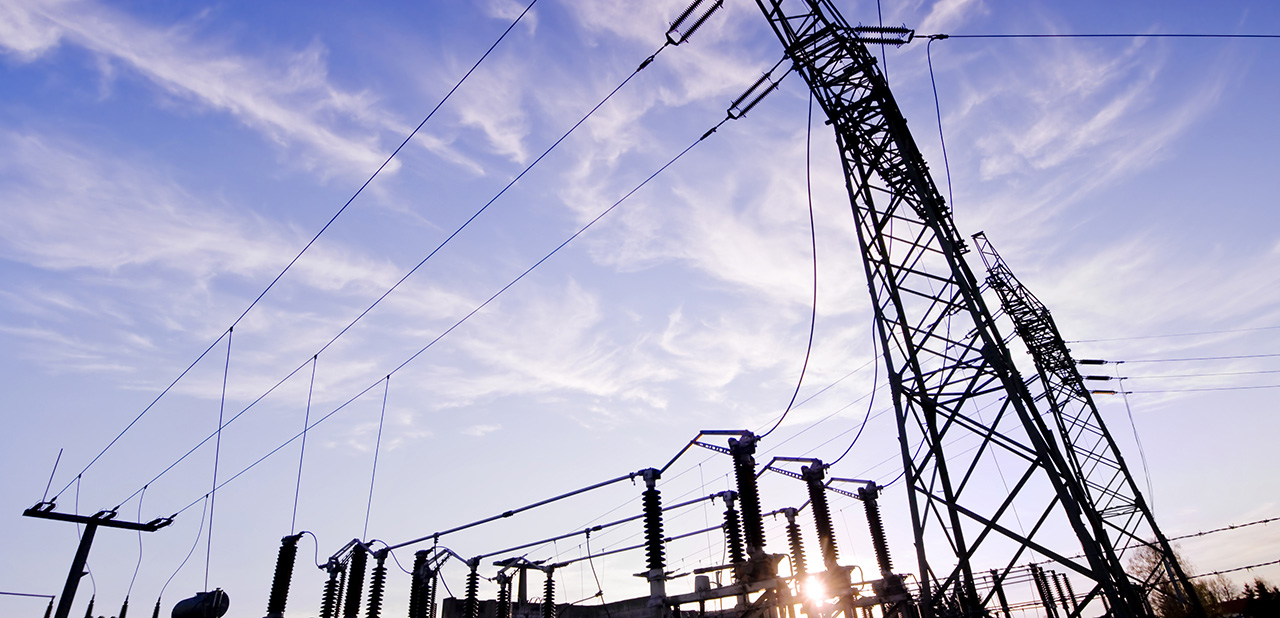
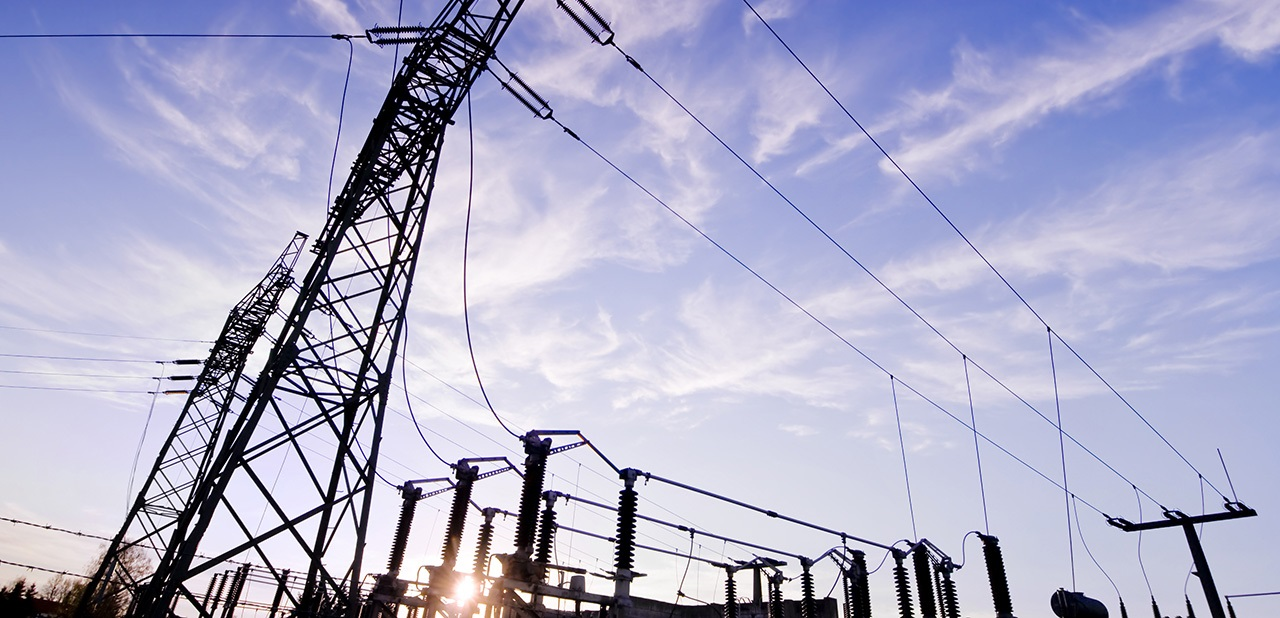
v1.0.0

diff --git a/_includes/about.html b/_includes/about.html
@@ -8,99 +8,6 @@
             <p>{{ site.about }}</p>
           </div>
         </div>
-        <div class="col-md-12">
-          <div class="about-content">
-            <div class="row">
-              <div class="col-md-6">
-                <div class="our-skill">
-                  <h3>Our Skills</h3>                  
-                  <div class="our-skill-content">
-                  <p>There are many variations of passages of Lorem Ipsum available, but the majority have suffered alteration in some form, by injected humour</p>
-                    <div class="progress">
-                      <div class="progress-bar six-sec-ease-in-out" role="progressbar" data-transitiongoal="100">
-                        <span class="progress-title">Html5</span>
-                      </div>
-                  </div>
-                  <div class="progress">
-                      <div class="progress-bar six-sec-ease-in-out" role="progressbar" data-transitiongoal="85">
-                        <span class="progress-title">Css3</span>
-                      </div>
-                  </div>
-                  <div class="progress">
-                      <div class="progress-bar six-sec-ease-in-out" role="progressbar" data-transitiongoal="70">
-                        <span class="progress-title">JQuery</span>
-                      </div>
-                  </div>
-                  <div class="progress">
-                      <div class="progress-bar six-sec-ease-in-out" role="progressbar" data-transitiongoal="60">
-                        <span class="progress-title">wordPress</span>
-                      </div>
-                  </div>
-                  <div class="progress">
-                      <div class="progress-bar six-sec-ease-in-out" role="progressbar" data-transitiongoal="40">
-                        <span class="progress-title">Php</span>
-                      </div>
-                  </div>
-                   <div class="progress">
-                      <div class="progress-bar six-sec-ease-in-out" role="progressbar" data-transitiongoal="25">
-                        <span class="progress-title">Java</span>
-                      </div>
-                  </div>
-                  </div>                  
-                </div>
-              </div>
-              <div class="col-md-6">
-                <div class="why-choose-us">
-                  <h3>Why Choose Us?</h3>
-                  <div class="panel-group why-choose-group" id="accordion">
-                    <div class="panel panel-default">
-                      <div class="panel-heading">
-                        <h4 class="panel-title">
-                          <a data-toggle="collapse" data-parent="#accordion" href="#collapseOne">
-                            Awesome Design Layout <span class="fa fa-minus-square"></span>
-                          </a>
-                        </h4>
-                      </div>
-                      <div id="collapseOne" class="panel-collapse collapse in">
-                        <div class="panel-body">
-                        <img class="why-choose-img" src="assets/images/testi1.jpg" alt="img">
-                         <p> Anim pariatur cliche reprehenderit, enim eiusmod high life accusamus terry richardson ad squid. 3 wolf moon officia aute, non cupidatat skateboard dolor brunch. Food truck quinoa nesciunt laborum eiusmod. Brunch 3 wolf moon tempor, sunt aliqua put a bird on it squid single-origin coffee nulla assumenda shoreditch et. Nihil anim keffiyeh helvetica, craft beer labore wes anderson cred nesciunt sapiente ea proident. Ad vegan excepteur butcher vice lomo. Leggings occaecat craft beer farm-to-table, raw denim aesthetic synth nesciunt you probably haven't heard of them accusamus labore sustainable VHS.</p>
-                        </div>
-                      </div>
-                    </div>
-                    <div class="panel panel-default ">
-                      <div class="panel-heading">
-                        <h4 class="panel-title">
-                          <a data-toggle="collapse" data-parent="#accordion" href="#collapseTwo">
-                            Quality Coding <span class="fa fa-plus-square"></span>
-                          </a>
-                        </h4>
-                      </div>
-                      <div id="collapseTwo" class="panel-collapse collapse">
-                        <div class="panel-body">
-                         <p>Anim pariatur cliche reprehenderit, enim eiusmod high life accusamus terry richardson ad squid. 3 wolf moon officia aute, non cupidatat skateboard dolor brunch. Food truck quinoa nesciunt laborum eiusmod. Brunch 3 wolf moon tempor, sunt aliqua put a bird on it squid single-origin coffee nulla assumenda shoreditch et. Nihil anim keffiyeh helvetica, craft beer labore wes anderson cred nesciunt sapiente ea proident. Ad vegan excepteur butcher vice lomo. Leggings occaecat craft beer farm-to-table, raw denim aesthetic synth nesciunt you probably haven't heard of them accusamus labore sustainable VHS.</p>
-                        </div>
-                      </div>
-                    </div>
-                    <div class="panel panel-default">
-                      <div class="panel-heading">
-                        <h4 class="panel-title">
-                          <a data-toggle="collapse" data-parent="#accordion" href="#collapseThree">
-                            Great Support <span class="fa fa-plus-square"></span>
-                          </a>
-                        </h4>
-                      </div>
-                      <div id="collapseThree" class="panel-collapse collapse">
-                        <div class="panel-body">
-                          <p>Anim pariatur cliche reprehenderit, enim eiusmod high life accusamus terry richardson ad squid. 3 wolf moon officia aute, non cupidatat skateboard dolor brunch. Food truck quinoa nesciunt laborum eiusmod. Brunch 3 wolf moon tempor, sunt aliqua put a bird on it squid single-origin coffee nulla assumenda shoreditch et. Nihil anim keffiyeh helvetica, craft beer labore wes anderson cred nesciunt sapiente ea proident. Ad vegan excepteur butcher vice lomo. Leggings occaecat craft beer farm-to-table, raw denim aesthetic synth nesciunt you probably haven't heard of them accusamus labore sustainable VHS.</p>
-                        </div>
-                      </div>
-                    </div>
-                  </div>
-                </div>
-              </div>              
-            </div>
-          </div>
         </div>
       </div>
     </div>

diff --git a/_includes/service.html b/_includes/service.html
@@ -5,63 +5,45 @@
           <div class="title-area">
             <h2 class="title">Our Services</h2>
             <span class="line"></span>
-            <p>There are many variations of passages of Lorem Ipsum available, but the majority have suffered alteration in some form, by injected humour</p>
+            <p></p>
           </div>
         </div>
         <div class="col-md-12">
           <div class="service-content">
             <div class="row">
               <!-- Start single service -->
-              <div class="col-md-4 col-sm-6">
+              <div class="col-md-6 col-sm-6">
                 <div class="single-service wow zoomIn">
-                  <i class="fa fa-desktop service-icon"></i>
-                  <h4 class="service-title">Web Development</h4>
-                  <p>There are many variations of passages of Lorem Ipsum available, but the majority have suffered alteration in some form.</p>
+                  <i class="fa fa-signal service-icon"></i>
+                  <h4 class="service-title">{{ site.service.pj_1 }}</h4>
+                  <p>{{ site.service.sj_1 }}</p>
                 </div>
               </div>
               <!-- End single service -->
               <!-- Start single service -->
-              <div class="col-md-4 col-sm-6">
+              <div class="col-md-6 col-sm-6">
                 <div class="single-service wow zoomIn">
-                  <i class="fa fa-paw service-icon"></i>
-                  <h4 class="service-title">Digital Design</h4>
-                  <p>There are many variations of passages of Lorem Ipsum available, but the majority have suffered alteration in some form.</p>
+                  <i class="fa fa-wrench service-icon"></i>
+                  <h4 class="service-title">{{ site.service.pj_2 }}</h4>
+                  <p>{{ site.service.sj_2 }}</p>
                 </div>
               </div>
               <!-- End single service -->
               <!-- Start single service -->
-              <div class="col-md-4 col-sm-6">
+              <div class="col-md-6 col-sm-6">
                 <div class="single-service wow zoomIn">
-                  <i class="fa fa-magic service-icon"></i>
-                  <h4 class="service-title">Marketing</h4>
-                  <p>There are many variations of passages of Lorem Ipsum available, but the majority have suffered alteration in some form.</p>
+                  <i class="fa fa-building service-icon"></i>
+                  <h4 class="service-title">{{ site.service.pj_3 }}</h4>
+                  <p>{{ site.service.sj_3 }}</p>
                 </div>
               </div>
               <!-- End single service -->
               <!-- Start single service -->
-              <div class="col-md-4 col-sm-6">
+              <div class="col-md-6 col-sm-6">
                 <div class="single-service wow zoomIn">
-                  <i class="fa fa-shopping-cart service-icon"></i>
-                  <h4 class="service-title">E-commerce</h4>
-                  <p>There are many variations of passages of Lorem Ipsum available, but the majority have suffered alteration in some form.</p>
-                </div>
-              </div>
-              <!-- End single service -->
-              <!-- Start single service -->
-              <div class="col-md-4 col-sm-6">
-                <div class="single-service wow zoomIn">
-                  <i class="fa fa-mobile service-icon"></i>
-                  <h4 class="service-title">App Development</h4>
-                  <p>There are many variations of passages of Lorem Ipsum available, but the majority have suffered alteration in some form.</p>
-                </div>
-              </div>
-              <!-- End single service -->
-              <!-- Start single service -->
-              <div class="col-md-4 col-sm-6">
-                <div class="single-service wow zoomIn">
-                  <i class="fa fa-rocket service-icon"></i>
-                  <h4 class="service-title">S.E.O</h4>
-                  <p>There are many variations of passages of Lorem Ipsum available, but the majority have suffered alteration in some form.</p>
+                  <i class="fa fa-laptop service-icon"></i>
+                  <h4 class="service-title">{{ site.service.pj_4 }}</h4>
+                  <p>{{ site.service.sj_4 }}</p>
                 </div>
               </div>
               <!-- End single service -->

diff --git a/_includes/slider.html b/_includes/slider.html
@@ -1,7 +1,7 @@
 <section id="slider">
     <div class="main-slider">
       <div class="single-slide">
-        <img src="assets/images/slider-1.jpg" alt="img">
+        <img src="assets/images/slider-3.jpg" alt="img">
         <div class="slide-content">
           <div class="container">
             <div class="row">
@@ -9,7 +9,7 @@
                 <div class="slide-article">
                   <h1 class="wow fadeInUp" data-wow-duration="0.5s" data-wow-delay="0.5s">Service for Telecommunications network</h1>
                   <p class="wow fadeInUp" data-wow-duration="0.5s" data-wow-delay="0.75s">Our Company  was established from engineers with experience in their field and combination and become to us. </p>
-                  <a class="read-more-btn wow fadeInUp" data-wow-duration="1s" data-wow-delay="1s" href="#">Read More</a>
+                 <!-- <a class="read-more-btn wow fadeInUp" data-wow-duration="1s" data-wow-delay="1s" href="#">Read More</a>-->
                 </div>
               </div>
               <div class="col-md-6 col-sm-6">
@@ -22,20 +22,20 @@
         </div>
       </div>
       <div class="single-slide">
-        <img src="assets/images/slider-3.jpg" alt="img">
+        <img src="assets/images/slider-1.jpg" alt="img">
         <div class="slide-content">
           <div class="container">
             <div class="row">
               <div class="col-md-6 col-sm-6">
-                <div class="slide-article">
-                  <h1 class="wow fadeInUp" data-wow-duration="0.5s" data-wow-delay="0.5s">We are team of experience in Telecommunications Networks</h1>
-                  <p class="wow fadeInUp" data-wow-duration="0.5s" data-wow-delay="0.75s">Enterprise networks  , Security System , Computer Systems , software</p>
-                  <a class="read-more-btn wow fadeInUp" data-wow-duration="1s" data-wow-delay="1s" href="#">Read More</a>
+                <div class="slider-img wow fadeInUp">
+                  <!--<img src="assets/images/person2.png" alt="business man">-->
                 </div>
               </div>
               <div class="col-md-6 col-sm-6">
-                <div class="slider-img wow fadeInUp">
-                  <!--<img src="assets/images/person2.png" alt="business man">-->
+                <div class="slide-article">
+                  <h1 class="wow fadeInUp" data-wow-duration="0.5s" data-wow-delay="0.5s">We are team of experience in Telecommunications Networks</h1>
+                  <p class="wow fadeInUp" data-wow-duration="0.5s" data-wow-delay="0.75s">Enterprise networks  , Security System , Computer Systems , software</p>
+                  <!-- <a class="read-more-btn wow fadeInUp" data-wow-duration="1s" data-wow-delay="1s" href="#">Read More</a>-->
                 </div>
               </div>
             </div>

diff --git a/_includes/navigation.html b/_includes/navigation.html
@@ -11,36 +11,15 @@
           </button>
           <!-- LOGO -->              
           <!-- TEXT BASED LOGO -->
-          <a class="navbar-brand" href="#">{{ site.brand }}</a>
+          <a class="navbar-brand" href="#"></a>
           <!-- IMG BASED LOGO  -->
-            <a class="navbar-brand" href="index.html"><img src="assets/images/logo.png" height="40px" alt="logo"></a>
+            <a class="navbar-brand" href="index.html"><img src="assets/images/Banner2.svg" height="40px" alt="logo"></a>
         </div>
         <div id="navbar" class="navbar-collapse collapse">
           <ul id="top-menu" class="nav navbar-nav navbar-right main-nav">
             <li class="active"><a href="#">Home</a></li>
-           <!-- <li><a href="#feature">Feature</a></li>
-           
-            <li class="dropdown">
-              <a href="#" class="dropdown-toggle" data-toggle="dropdown">Service <span class="fa fa-angle-down"></span></a>
-              <ul class="dropdown-menu" role="menu">
-                <li><a href="blog-archive.html">Blog Archive</a></li>
-                <li><a href="blog-single-with-left-sidebar.html">Blog Single with Left Sidebar</a></li>
-                <li><a href="blog-single-with-right-sidebar.html">Blog Single with Right Sidebar</a></li>
-                <li><a href="blog-single-with-out-sidebar.html">Blog Single with out Sidebar</a></li>
-              </ul>
-            </li>-->
-
-            <li><a href="#portfolio">Portfolio</a></li>
-           <!-- <li class="dropdown">
-              <a href="#" class="dropdown-toggle" data-toggle="dropdown">Blog <span class="fa fa-angle-down"></span></a>
-              <ul class="dropdown-menu" role="menu">
-                <li><a href="blog-archive.html">Blog Archive</a></li>                
-                <li><a href="blog-single-with-left-sidebar.html">Blog Single with Left Sidebar</a></li>
-                <li><a href="blog-single-with-right-sidebar.html">Blog Single with Right Sidebar</a></li>
-                <li><a href="blog-single-with-out-sidebar.html">Blog Single with out Sidebar</a></li>           
-              </ul>
-            </li>-->
-        
+           <li><a href="#about">About us</a></li>
+            <li><a href="#service">Service</a></li>
             <li><a href="#contact">Contact</a></li>
           </ul>                     
         </div><!--/.nav-collapse -->

diff --git a/_includes/contact.html b/_includes/contact.html
@@ -4,7 +4,7 @@
 		<div class="row">
 			<div class="col-md-12">
 				<div class="title-area">
-					<h2 class="title">Have any Questions?</h2>
+					<h2 class="title">Contact Us</h2>
 					<span class="line"></span>
 					<p></p>
 				</div>
@@ -17,19 +17,11 @@
 								<h4>Contact Info</h4>
 								<p>Goal Utility Company Limited</p>
 								<address class="single-address">
-									<p>HQ  10/56  Soi changwatana 14 thungsonghong Laksi Bangkok 10210 (Thailand)</p>
-									<p><a href="mailto:contact@goalutility.com?cc=ratchakitim@gmail.com,thanakorn@goalutility.com
-">
+									<p>{{ site.contact.address }}</p>
+									<p><a href="mailto:contact@goalutility.com?cc=ratchakitim@gmail.com,thanakorn@goalutility.com">
 										contact@goalutility.com</a></p>
-									<p>+1(06) 778 5468</p>
+									<p>{{ site.contact.tel }}</p>
 								</address>
-								<div class="footer-right contact-social">
-									<a href="index.html"><i class="fa fa-facebook"></i></a>
-									<a href="#"><i class="fa fa-twitter"></i></a>
-									<a href="#"><i class="fa fa-google-plus"></i></a>
-									<a href="#"><i class="fa fa-linkedin"></i></a>
-									<a href="#"><i class="fa fa-pinterest"></i></a>
-								</div>
 							</div>
 						</div>
 						<div class="col-md-8">

diff --git a/_includes/footer.html b/_includes/footer.html
@@ -6,7 +6,7 @@
             <p> © {{ site.time | date: "%Y" }} <a href="{{ site.copyright.url }}">{{ site.copyright.brand }}</a></p>
           </div>
         </div>
-        <div class="col-md-6 col-sm-6">
+        <!--<div class="col-md-6 col-sm-6">
           <div class="footer-right">
             <a href="index.html"><i class="fa fa-facebook"></i></a>
             <a href="#"><i class="fa fa-twitter"></i></a>
@@ -14,7 +14,7 @@
             <a href="#"><i class="fa fa-linkedin"></i></a>
             <a href="#"><i class="fa fa-pinterest"></i></a>
           </div>
-        </div>
+        </div>-->
       </div>
     </div>
   </footer>

diff --git a/_includes/head.html b/_includes/head.html
@@ -19,7 +19,7 @@
     <!-- Progress bar  -->
     <link rel="stylesheet" type="text/css" href="assets/css/bootstrap-progressbar-3.3.4.css"/> 
      <!-- Theme color -->
-    <link id="switcher" href="assets/css/theme-color/orange-theme.css" rel="stylesheet">
+    <link id="switcher" href="assets/css/theme-color/{{ site.themez }}.css" rel="stylesheet">
 
     <!-- Main Style -->
     <link href="assets/style.css" rel="stylesheet">

diff --git a/_layouts/default.html b/_layouts/default.html
@@ -2,6 +2,15 @@
 <html lang="en">
   {% include head.html %}
     <body>
+    <!-- BEGAIN PRELOADER -->
+  <div id="preloader">
+    <div id="status">&nbsp;</div>
+  </div>
+  <!-- END PRELOADER -->
+
+  <!-- SCROLL TOP BUTTON -->
+  <a class="scrollToTop" href="#"><i class="fa fa-angle-up"></i></a>
+  <!-- END SCROLL TOP BUTTON -->
     {% include navigation.html %}
     {% if site.slider %}
     {% include slider.html %}

diff --git a/assets/style.css b/assets/style.css
@@ -34,7 +34,7 @@ body,html{
 }
 
 body {
-	font-family: 'Kanit', sans-serif;
+	font-family: 'Lato', sans-serif;
 	font-size: 16px;
 	overflow-x: hidden !important;
 	color: #838282;
